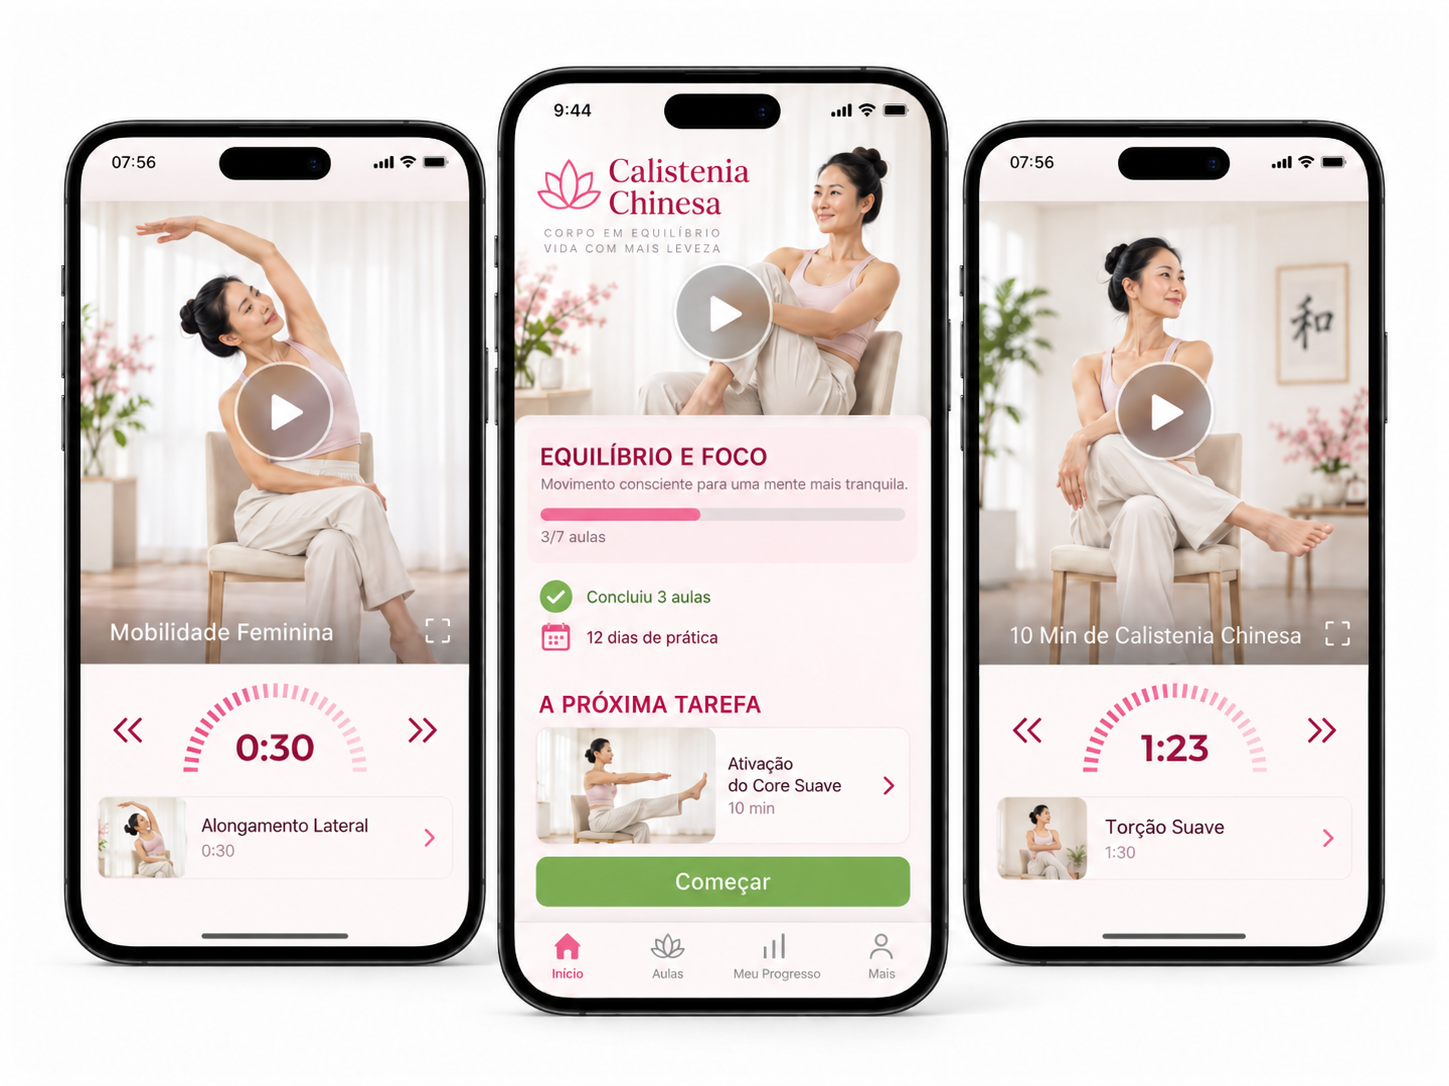
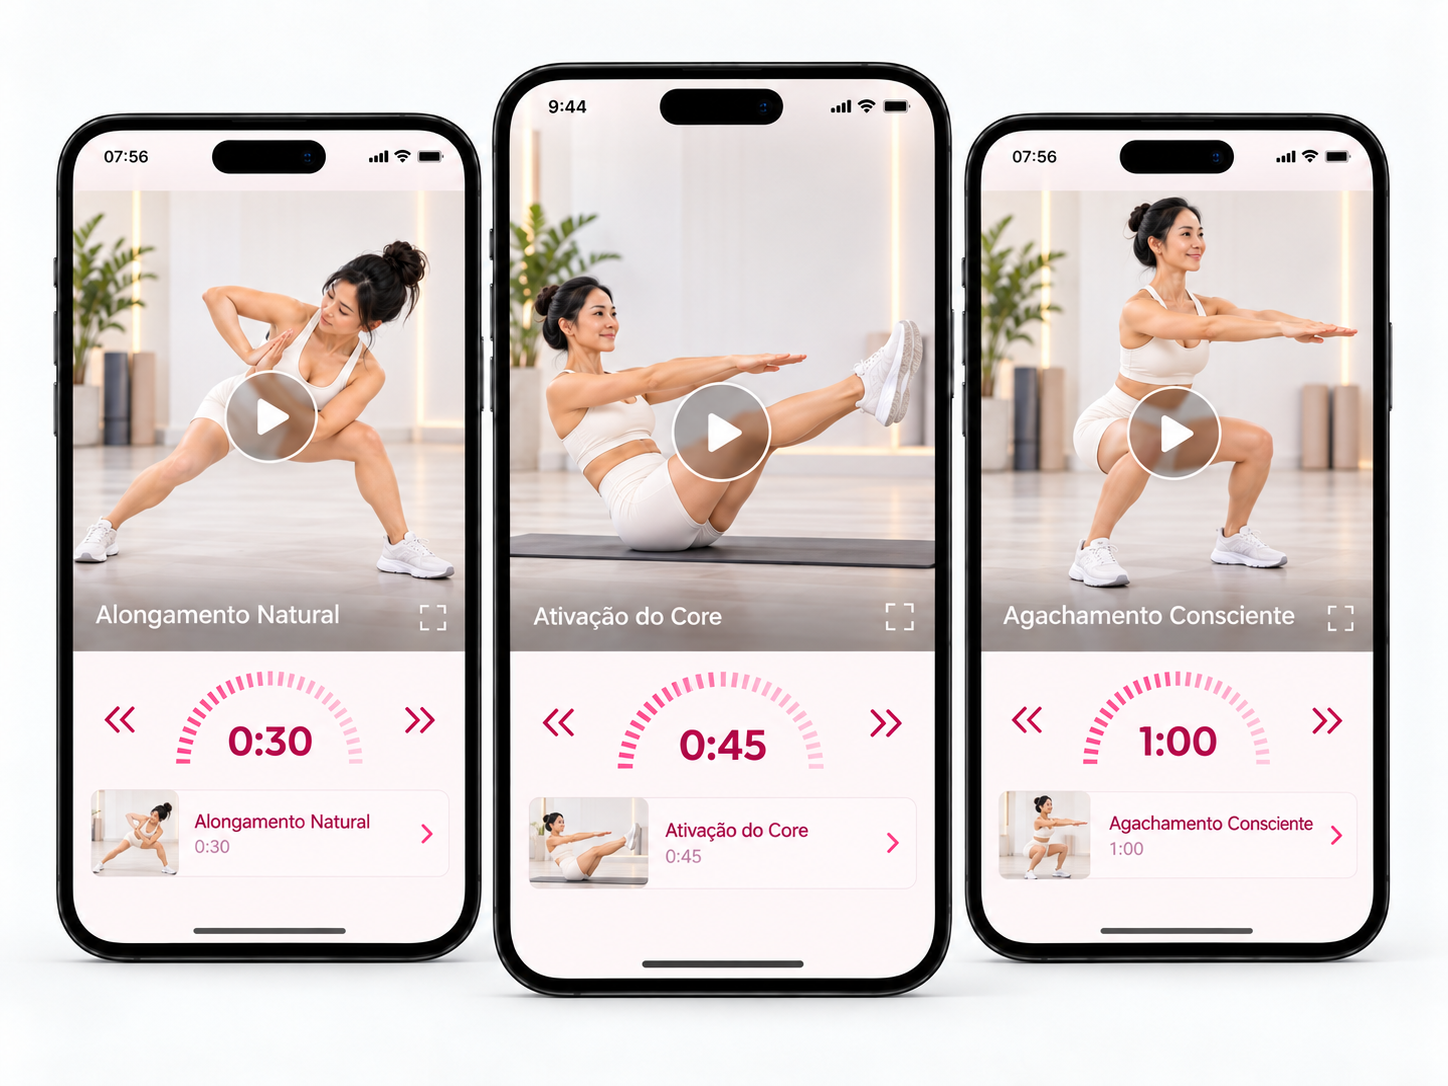
Refresh app mockup image and restyle the benefits list
Swap the appExplainer step's 3-phone mockup for the new image. Restyle
the benefits step's item list to match the reference: colored pill
rows with a dot bullet and an inline bold lead-in, replacing the
icon-box cards, using the same per-item colors already in the data.

diff --git a/src/components/quiz/screens/BenefitsScreen.tsx b/src/components/quiz/screens/BenefitsScreen.tsx
@@ -31,29 +31,21 @@ export function BenefitsScreen({ step, onContinue }: { step: BenefitsStep; onCon
       </div>
 
       <div className="flex flex-col gap-3">
-        {step.items.map((item, i) => {
-          const Icon = item.icon;
-          return (
-            <motion.div
-              key={item.title}
-              initial={{ opacity: 0, y: 12 }}
-              animate={{ opacity: 1, y: 0 }}
-              transition={{ duration: 0.35, delay: 0.16 + i * 0.07 }}
-              className="flex items-start gap-3.5 rounded-2xl border border-border bg-surface p-4 shadow-sm"
-            >
-              <span
-                className="flex h-11 w-11 shrink-0 items-center justify-center rounded-xl"
-                style={{ background: item.bg, color: item.color }}
-              >
-                <Icon size={21} strokeWidth={2.1} />
-              </span>
-              <div>
-                <p className="text-[14.5px] font-extrabold uppercase tracking-tight text-text">{item.title}</p>
-                <p className="mt-0.5 text-[13.5px] leading-snug text-text-secondary">{item.text}</p>
-              </div>
-            </motion.div>
-          );
-        })}
+        {step.items.map((item, i) => (
+          <motion.div
+            key={item.title}
+            initial={{ opacity: 0, y: 12 }}
+            animate={{ opacity: 1, y: 0 }}
+            transition={{ duration: 0.35, delay: 0.16 + i * 0.07 }}
+            className="flex items-start gap-2.5 rounded-2xl px-4 py-3.5"
+            style={{ background: item.bg }}
+          >
+            <span className="mt-[6px] h-2.5 w-2.5 shrink-0 rounded-full" style={{ background: item.color }} aria-hidden />
+            <p className="text-[14px] leading-snug text-text">
+              <span className="font-extrabold">{item.title}</span> {item.text}
+            </p>
+          </motion.div>
+        ))}
       </div>
 
       <ScreenFooter>
